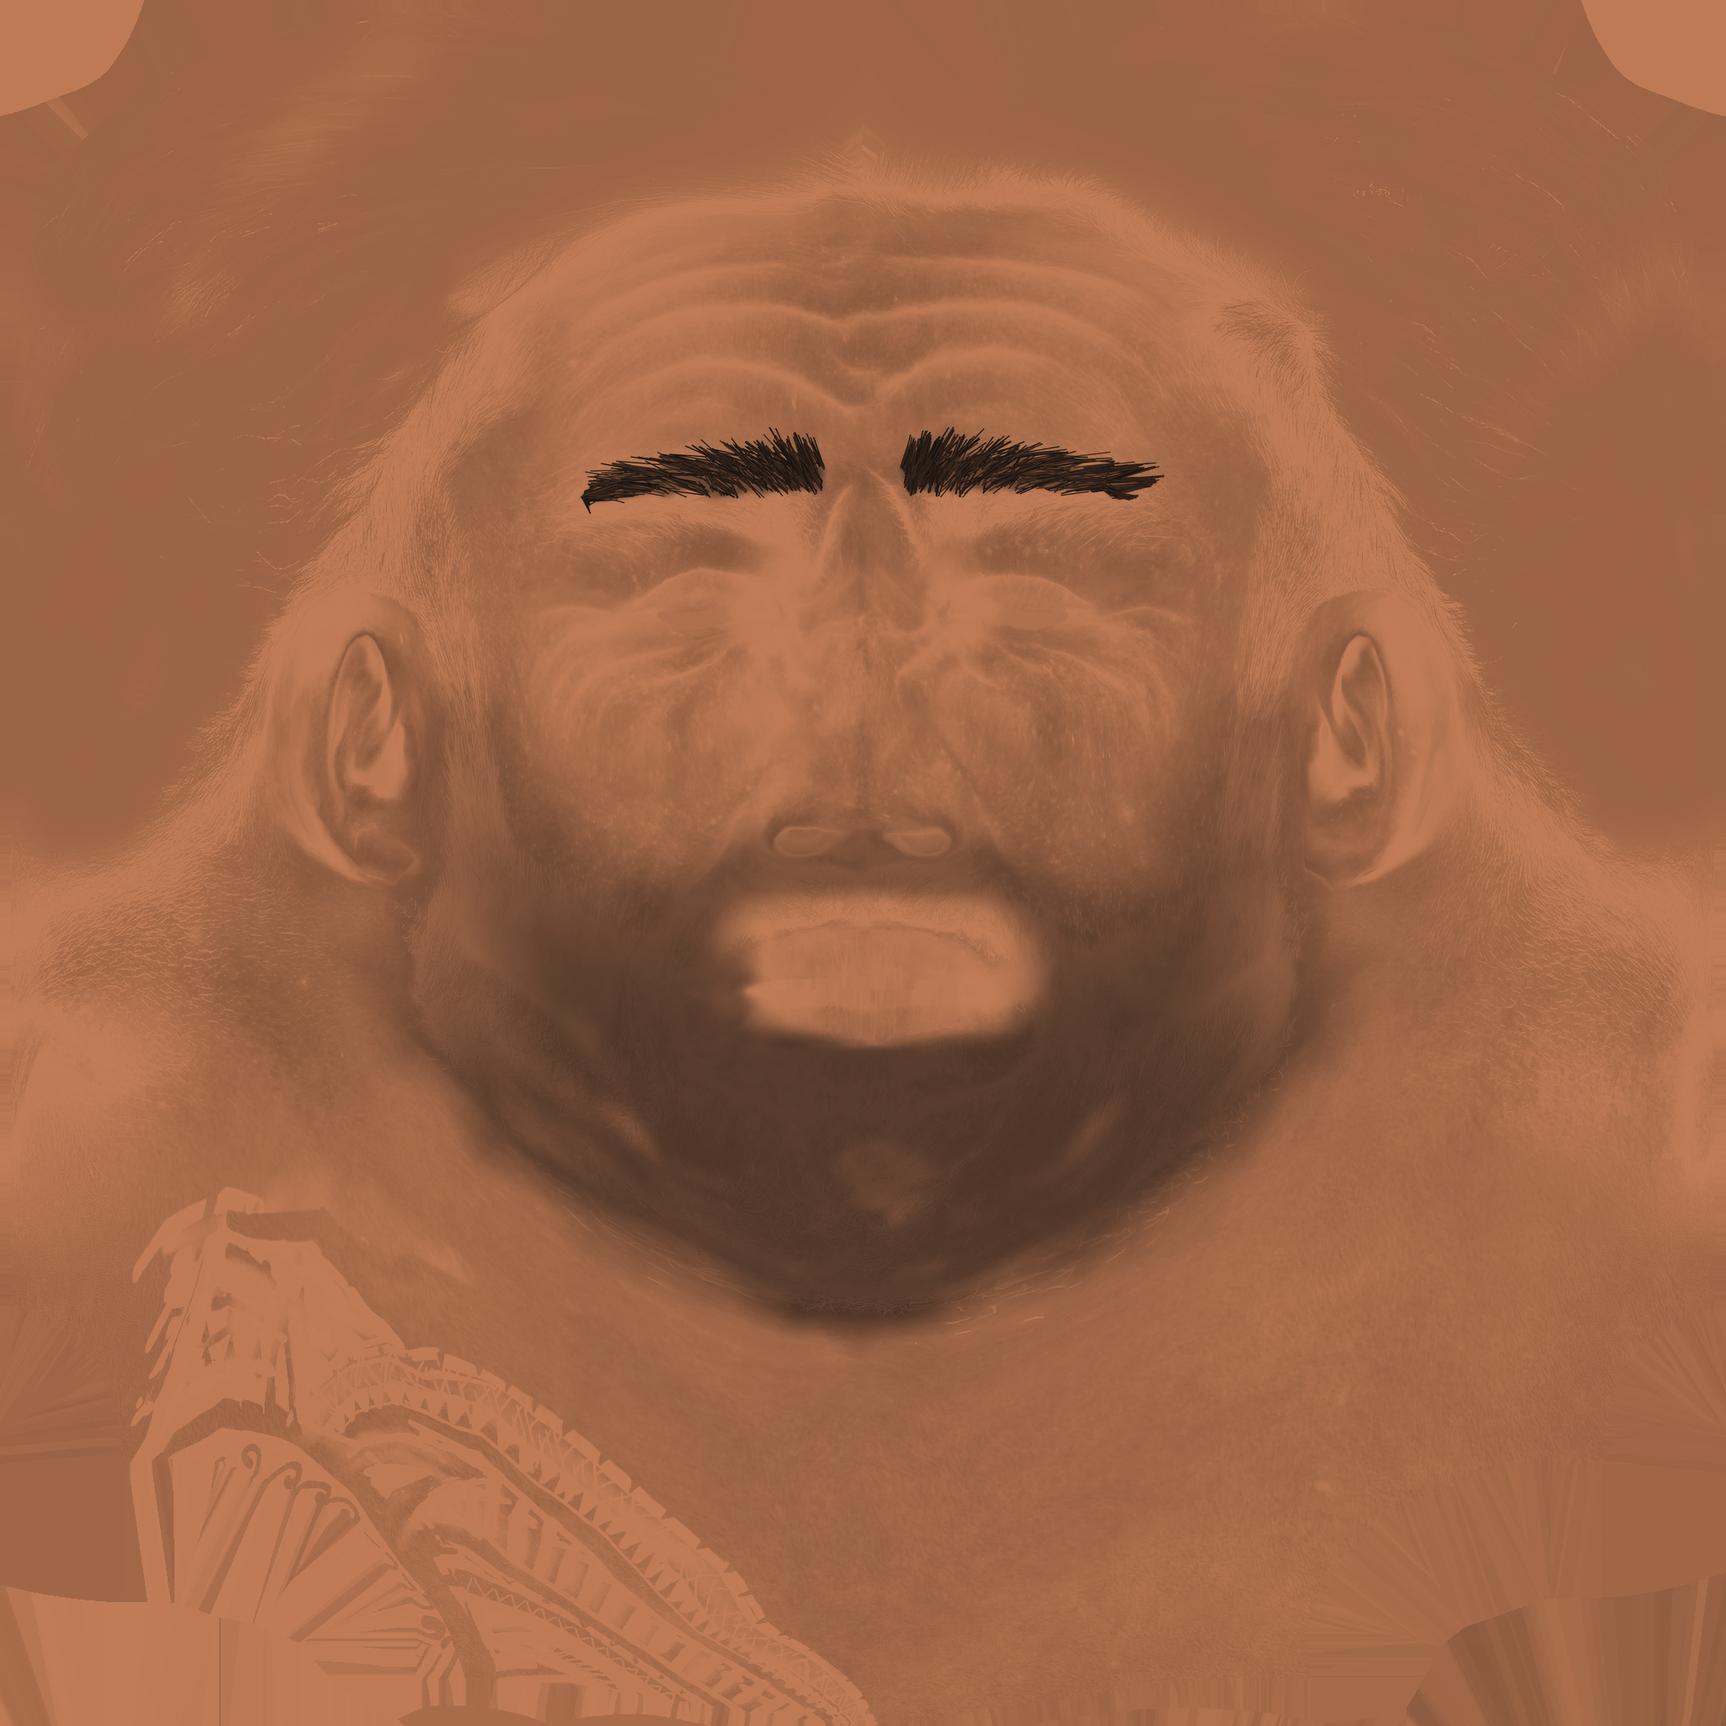
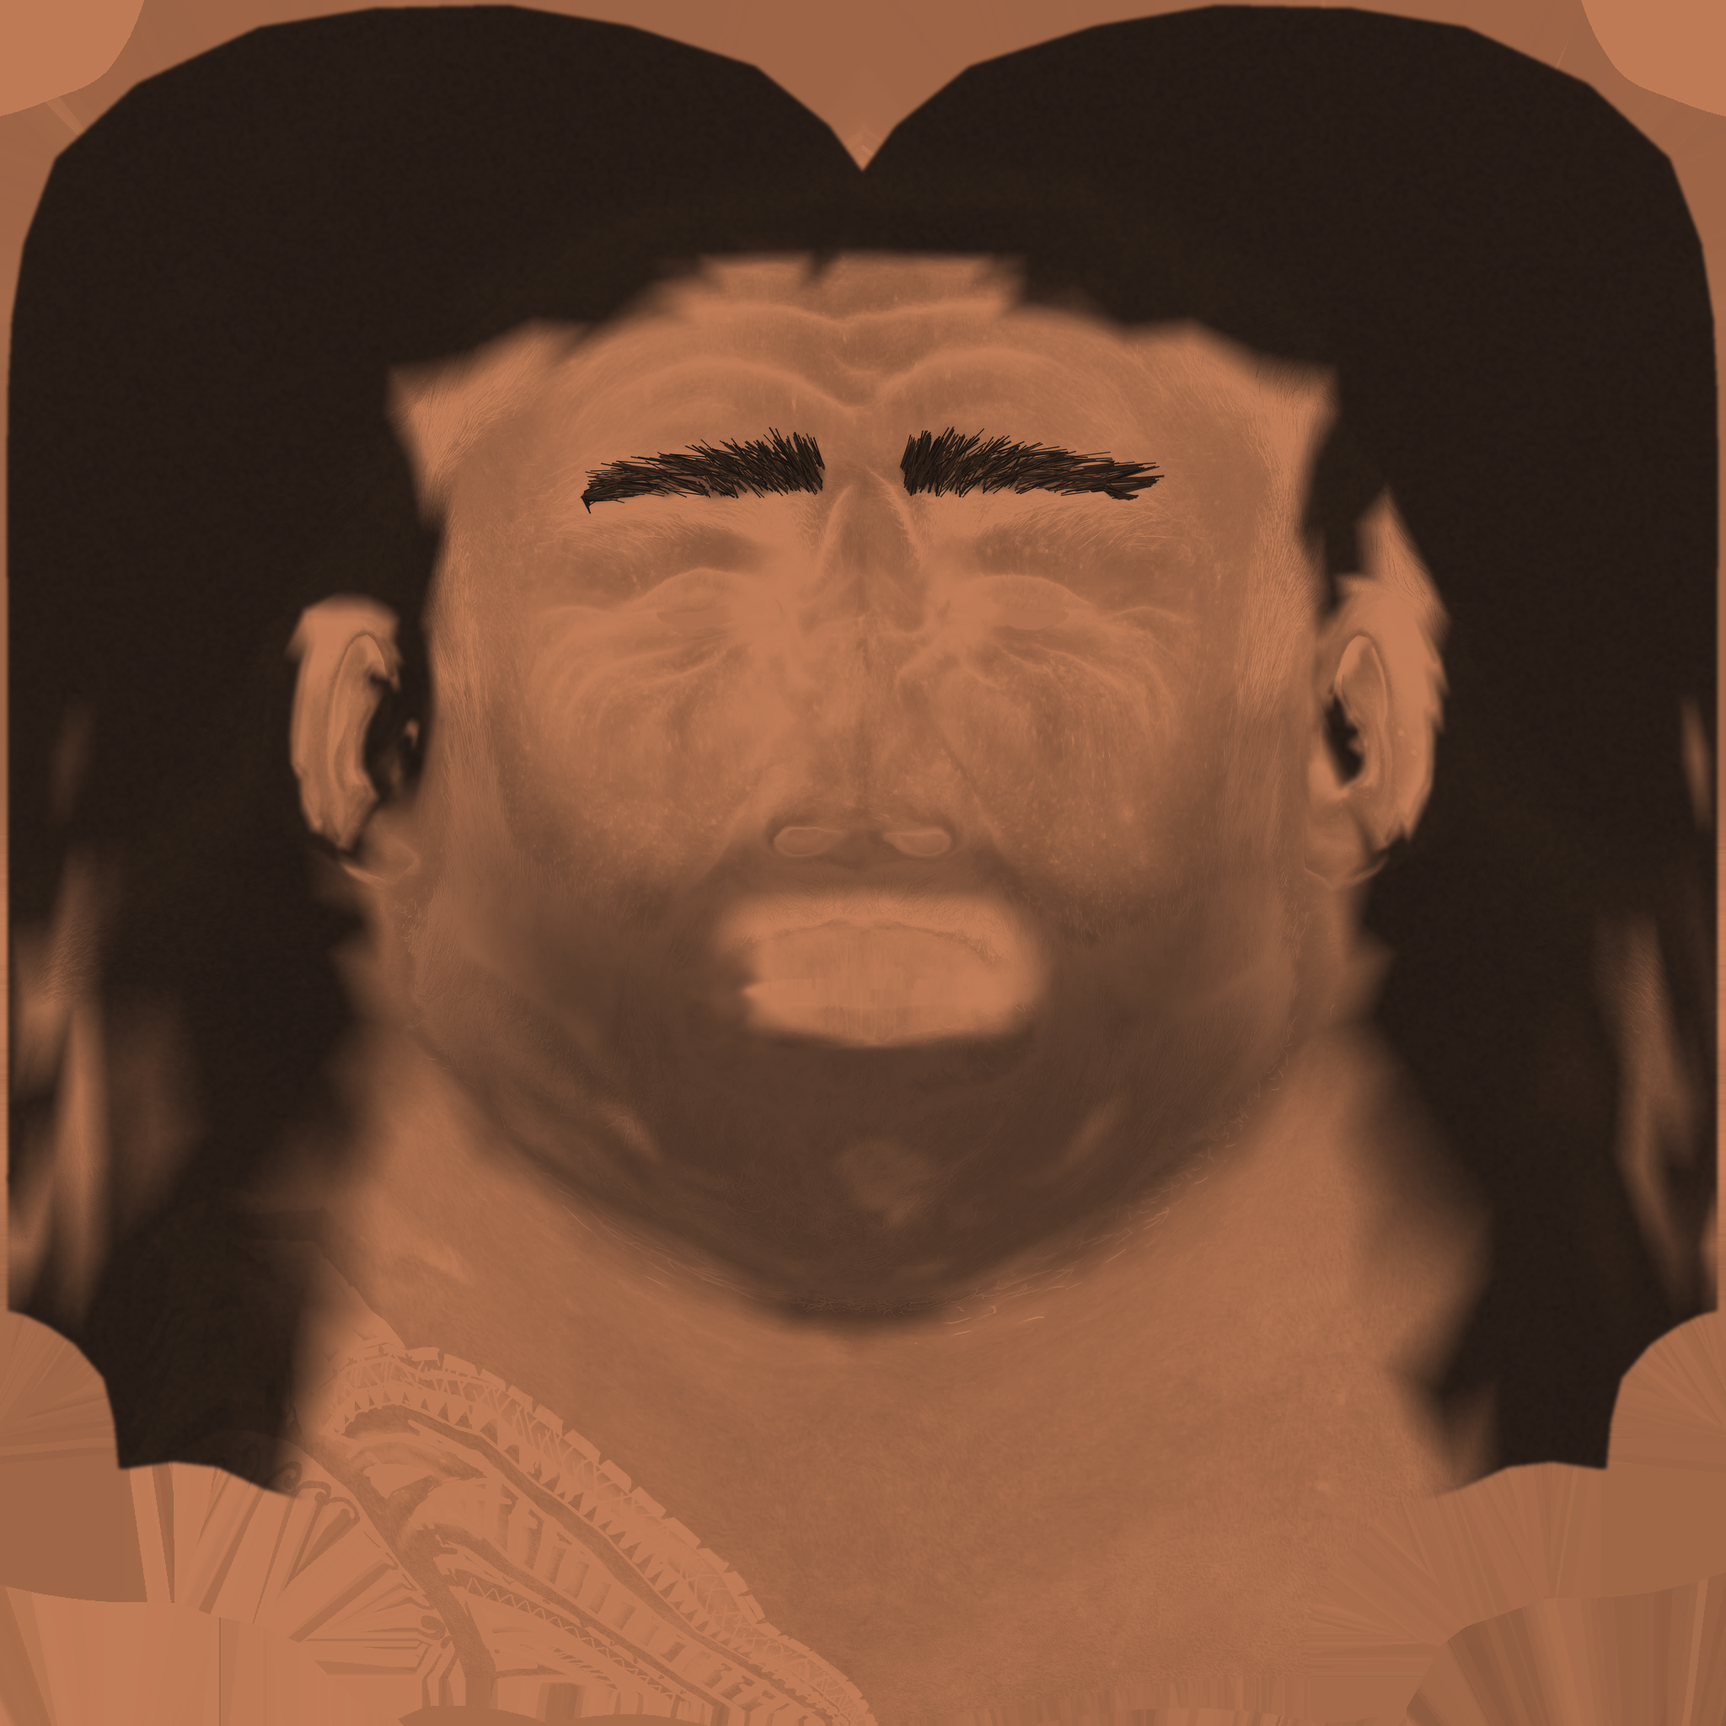
Roman's hair, phase 0: scalp cap, matte cap surface, wet glint, warm beard
- build_roman_hair_alpha.py paints a scalp cap into the head albedo under
  the hair cards (reach measured per region, off the face and ears, islands
  padded before the blur) and writes roman_reigns_head_rm.png: roughness in
  R, metallic in G, so the cap is matte and reflects its near-black albedo
  instead of a grey-blue band under the cool key.
- RomanModel: HAIR_SPECULAR 0.2 (the crown read silver under the 2K26 rig),
  BEARD_COLOR warm brown-black and BEARD_SPECULAR 0.25, the head's surface map.
- hair_shot.tscn takes --only and --modes.
- Tests: the map's skin value matches SKIN_ROUGHNESS, no metal on the face,
  the hair, beard and head materials. 597 pass.

Claude-Session: https://claude.ai/code/session_01RyRo3mh3ZakHSDewU65aFM

diff --git a/tools/assets/build_roman_hair_alpha.py b/tools/assets/build_roman_hair_alpha.py
@@ -383,6 +383,47 @@ BEARD_LIP_HALF_W = 0.028
 BEARD_LIP_HALF_H = 0.0105
 
 
+def _nearest_distance(points, cloud):
+    """Distance from each of `points` to the nearest point of `cloud`."""
+    import numpy as np
+    near = np.empty(len(points))
+    for i in range(0, len(points), 256):
+        d = np.linalg.norm(points[i:i + 256, None, :] - cloud[None, :, :], axis=2)
+        near[i:i + 256] = d.min(axis=1)
+    return near
+
+
+def _uv_field(size, uv, tris, weight):
+    """Rasterises a per-vertex weight into a size x size texture-space field
+    through the mesh's UVs, keeping the max where islands overlap."""
+    import numpy as np
+    field = np.zeros((size, size), dtype=np.float32)
+    for tri in tris:
+        w = weight[tri]
+        if w.max() <= 0.0:
+            continue
+        p = uv[tri] * size
+        x0, y0 = np.floor(p.min(axis=0)).astype(int)
+        x1, y1 = np.ceil(p.max(axis=0)).astype(int)
+        x0, y0 = max(x0, 0), max(y0, 0)
+        x1, y1 = min(x1, size - 1), min(y1, size - 1)
+        if x1 < x0 or y1 < y0:
+            continue
+        xs, ys = np.meshgrid(np.arange(x0, x1 + 1) + 0.5, np.arange(y0, y1 + 1) + 0.5)
+        (ax, ay), (bx, by), (cx, cy) = p
+        den = (by - cy) * (ax - cx) + (cx - bx) * (ay - cy)
+        if abs(den) < 1e-9:
+            continue
+        l0 = ((by - cy) * (xs - cx) + (cx - bx) * (ys - cy)) / den
+        l1 = ((cy - ay) * (xs - cx) + (ax - cx) * (ys - cy)) / den
+        l2 = 1.0 - l0 - l1
+        inside = (l0 >= -0.01) & (l1 >= -0.01) & (l2 >= -0.01)
+        val = l0 * w[0] + l1 * w[1] + l2 * w[2]
+        region = field[y0:y1 + 1, x0:x1 + 1]
+        region[inside] = np.maximum(region[inside], val[inside])
+    return field
+
+
 def paint_beard_shadow(model: pathlib.Path, target: pathlib.Path) -> None:
     import numpy as np
     head = _glb_attributes(model, "M_Head")
@@ -390,11 +431,7 @@ def paint_beard_shadow(model: pathlib.Path, target: pathlib.Path) -> None:
     pos = np.array(head["POSITION"])
     uv = np.array(head["TEXCOORD_0"])
     tris = np.array(head["INDICES"]).reshape(-1, 3)
-    # Nearest card vertex per head vertex, in chunks.
-    near = np.empty(len(pos))
-    for i in range(0, len(pos), 256):
-        d = np.linalg.norm(pos[i:i + 256, None, :] - cards[None, :, :], axis=2)
-        near[i:i + 256] = d.min(axis=1)
+    near = _nearest_distance(pos, cards)
     weight = np.clip(1.0 - (near - BEARD_SHADOW_NEAR)
                      / (BEARD_SHADOW_FAR - BEARD_SHADOW_NEAR), 0.0, 1.0)
     # Never above the cheekbone line or behind the ear.
@@ -420,30 +457,7 @@ def paint_beard_shadow(model: pathlib.Path, target: pathlib.Path) -> None:
     weight *= 1.0 - (1.0 - BEARD_SHADOW_SIDES) * fade
     albedo = Image.open(target).convert("RGB")
     size = albedo.size[0]
-    field = np.zeros((size, size), dtype=np.float32)
-    for tri in tris:
-        w = weight[tri]
-        if w.max() <= 0.0:
-            continue
-        p = uv[tri] * size
-        x0, y0 = np.floor(p.min(axis=0)).astype(int)
-        x1, y1 = np.ceil(p.max(axis=0)).astype(int)
-        x0, y0 = max(x0, 0), max(y0, 0)
-        x1, y1 = min(x1, size - 1), min(y1, size - 1)
-        if x1 < x0 or y1 < y0:
-            continue
-        xs, ys = np.meshgrid(np.arange(x0, x1 + 1) + 0.5, np.arange(y0, y1 + 1) + 0.5)
-        (ax, ay), (bx, by), (cx, cy) = p
-        den = (by - cy) * (ax - cx) + (cx - bx) * (ay - cy)
-        if abs(den) < 1e-9:
-            continue
-        l0 = ((by - cy) * (xs - cx) + (cx - bx) * (ys - cy)) / den
-        l1 = ((cy - ay) * (xs - cx) + (ax - cx) * (ys - cy)) / den
-        l2 = 1.0 - l0 - l1
-        inside = (l0 >= -0.01) & (l1 >= -0.01) & (l2 >= -0.01)
-        val = l0 * w[0] + l1 * w[1] + l2 * w[2]
-        region = field[y0:y1 + 1, x0:x1 + 1]
-        region[inside] = np.maximum(region[inside], val[inside])
+    field = _uv_field(size, uv, tris, weight)
     # Stubble grain, seeded: a beard shadow is not a flat fill.
     rng = np.random.default_rng(BEARD_SHADOW_SEED)
     grain = 0.78 + 0.22 * rng.random((size, size), dtype=np.float32)
@@ -452,6 +466,124 @@ def paint_beard_shadow(model: pathlib.Path, target: pathlib.Path) -> None:
     shadow = Image.new("RGB", albedo.size, BEARD_SHADOW_COLOR)
     Image.composite(shadow, albedo, mask).save(target, optimize=True)
     print(f"{'beard shadow':38} -> {target.name:34} {int((field > 0.05).sum())} texels")
+
+
+## The scalp under the hair, painted into the head albedo.
+##
+## The same two-layer rule as the beard, applied to the head: a game head of
+## hair is cards for the silhouette over a painted scalp cap, so wherever the
+## cards part, the eye finds more hair and not skin. Roman had no cap. With
+## his hair lifted off the scalp for volume (RomanModel.hair_lift) and the
+## hanging lengths drawn out past the shoulders (hair_stretch), the gaps
+## between cards widened, and on hair_shot.tscn tan skin showed through at
+## the temples, over the ear and in a dotted patch behind it.
+##
+## Where to paint comes from the cards, as with the beard: each head vertex
+## is darkened by its distance to the nearest card of the two visible hair
+## meshes, measured in BIND space (before the runtime lift): full inside a
+## reach, feathering to nothing SCALP_CAP_FEATHER further out. The reach is
+## not one number because the cards are not one distance off the skin --
+## measured, the median gap is 3 mm at the front hairline and 12 mm over the
+## back of the head (90th percentile 7.5 mm and 16 mm). One reach either
+## missed the back (the first render: tan blotches through a grey wash) or
+## crept down the forehead. So the tight SCALP_CAP_REACH[0] holds only on
+## the hairline itself -- the front of the head (SCALP_CAP_FRONT_Z) below
+## the top of the forehead (SCALP_CAP_FRONT_Y) -- and [1] everywhere else,
+## the crown included: a front-to-back blend left the top of the crown, whose
+## cards also sit ~10 mm off, half-painted. The feather is the hairline: hair
+## thins into the forehead, it does not stop on a line -- but over a few
+## millimetres: in game, at 9 mm the dark paint thinned over skin read as a
+## grey-blue band across the top of the forehead under the cool key. So the
+## feather narrows to SCALP_CAP_FEATHER[0] on the hairline and stays
+## [1] elsewhere, where it only blends cap into nape and sideburn.
+##
+## Never on the face: SCALP_CAP_FACE keeps it off everything in front of the
+## ears below the hairline, where the beard shadow takes over. Never on the
+## ears: the hanging cards pass within 2 cm of their backs, and the first
+## render painted them dark. SCALP_CAP_EAR is the box they stick out of the
+## skull in (|x| beyond the skull's 0.076 half-width above them).
+SCALP_CAP_MESHES = ("M_Hair", "S_Hair")
+SCALP_CAP_COLOR = (20, 16, 14)
+SCALP_CAP_REACH = (0.006, 0.017)
+SCALP_CAP_FRONT_Z = (0.03, 0.08)
+SCALP_CAP_FRONT_Y = (1.79, 1.82)
+SCALP_CAP_FEATHER = (0.003, 0.009)
+SCALP_CAP_OPACITY = 0.97
+SCALP_CAP_SEED = 13
+## (z in front of, y below) which the cap is never painted.
+SCALP_CAP_FACE = (0.065, 1.765)
+## (|x| beyond, y from, y to)
+SCALP_CAP_EAR = (0.077, 1.63, 1.77)
+## The cap's surface, written as roman_reigns_head_rm.png: roughness in R
+## (roughness_texture, multiplying a material roughness of 1.0 -- so
+## HEAD_SKIN_ROUGHNESS must equal RomanModel.SKIN_ROUGHNESS["Material.001"],
+## and a test holds them together) and the cap's coverage in G
+## (metallic_texture, at a material metallic of 1.0).
+##
+## Painting the cap dark was half the fix. Where the hairline cards thin, the
+## cap shows through them, and the head's skin material threw the cool key
+## back off it as a grey-blue band across the top of the forehead: on tan
+## skin that sheen is lost in the colour, on near-black it IS the colour.
+## Rendered with the head's reflectance at zero the band went dark, as a mat
+## of roots does. Roughness alone did not do it (rendered at 1.0, the band
+## stayed): what lit it is the 4% reflectance every dielectric has, and
+## BaseMaterial3D cannot map that. Metallic can -- a metal reflects its own
+## albedo, and this albedo is near-black -- so under the cap the head is
+## "metallic", rough, and reflects almost nothing. Only under the cap, so
+## the face keeps its sheen.
+HEAD_SKIN_ROUGHNESS = 0.58
+SCALP_CAP_ROUGHNESS = 1.0
+## Texels the painted field is grown past each UV island's edge before the
+## blur, as a bake pads its islands. Without it the blur averages the island
+## with the empty texels outside it, and every UV seam draws as a pale line --
+## one ran down the middle of the crown in the first render.
+SCALP_CAP_PAD = 4
+
+
+def paint_scalp_cap(model: pathlib.Path, target: pathlib.Path,
+                    surface: pathlib.Path) -> None:
+    import numpy as np
+    head = _glb_attributes(model, "M_Head")
+    cards = np.vstack([np.array(_glb_attributes(model, m)["POSITION"])
+                       for m in SCALP_CAP_MESHES])
+    pos = np.array(head["POSITION"])
+    uv = np.array(head["TEXCOORD_0"])
+    tris = np.array(head["INDICES"]).reshape(-1, 3)
+    near = _nearest_distance(pos, cards)
+    def smooth(a, b, x):
+        u = np.clip((x - a) / (b - a), 0.0, 1.0)
+        return u * u * (3.0 - 2.0 * u)
+    hairline = smooth(*SCALP_CAP_FRONT_Z, pos[:, 2]) * (1.0 - smooth(*SCALP_CAP_FRONT_Y, pos[:, 1]))
+    reach = SCALP_CAP_REACH[1] + (SCALP_CAP_REACH[0] - SCALP_CAP_REACH[1]) * hairline
+    feather = SCALP_CAP_FEATHER[1] + (SCALP_CAP_FEATHER[0] - SCALP_CAP_FEATHER[1]) * hairline
+    t = np.clip(1.0 - (near - reach) / feather, 0.0, 1.0)
+    weight = t * t * (3.0 - 2.0 * t)
+    weight[(pos[:, 2] > SCALP_CAP_FACE[0]) & (pos[:, 1] < SCALP_CAP_FACE[1])] = 0.0
+    ear = ((np.abs(pos[:, 0]) > SCALP_CAP_EAR[0])
+           & (pos[:, 1] > SCALP_CAP_EAR[1]) & (pos[:, 1] < SCALP_CAP_EAR[2]))
+    weight[ear] = 0.0
+    albedo = Image.open(target).convert("RGB")
+    size = albedo.size[0]
+    field = _uv_field(size, uv, tris, weight)
+    covered = field > 0.0
+    padded = np.array(Image.fromarray((field * 255).astype(np.uint8), "L")
+                      .filter(ImageFilter.MaxFilter(2 * SCALP_CAP_PAD + 1)),
+                      dtype=np.float32) / 255.0
+    field = np.where(covered, field, padded)
+    # Grain, seeded, so the cap reads as dense short roots rather than paint.
+    rng = np.random.default_rng(SCALP_CAP_SEED)
+    grain = 0.80 + 0.20 * rng.random((size, size), dtype=np.float32)
+    mask = Image.fromarray(np.clip(field * grain * SCALP_CAP_OPACITY * 255, 0, 255)
+                           .astype(np.uint8), "L").filter(ImageFilter.GaussianBlur(2))
+    cap = Image.new("RGB", albedo.size, SCALP_CAP_COLOR)
+    Image.composite(cap, albedo, mask).save(target, optimize=True)
+    print(f"{'scalp cap':38} -> {target.name:34} {int((field > 0.05).sum())} texels")
+    cover = np.asarray(mask, dtype=np.float32) / 255.0
+    rough = HEAD_SKIN_ROUGHNESS + (SCALP_CAP_ROUGHNESS - HEAD_SKIN_ROUGHNESS) * cover
+    channels = [np.round(rough * 255), np.round(cover * 255), np.zeros_like(cover)]
+    Image.merge("RGB", [Image.fromarray(c.astype(np.uint8), "L") for c in channels]) \
+        .save(surface, optimize=True)
+    print(f"{'scalp cap roughness/metallic':38} -> {surface.name:34}")
 
 
 def main() -> int:
@@ -469,6 +601,8 @@ def main() -> int:
     )
     paint_brows(CHARACTERS / "roman_reigns.glb", CHARACTERS / "roman_reigns_head_color.png")
     paint_beard_shadow(CHARACTERS / "roman_reigns.glb", CHARACTERS / "roman_reigns_head_color.png")
+    paint_scalp_cap(CHARACTERS / "roman_reigns.glb", CHARACTERS / "roman_reigns_head_color.png",
+                    CHARACTERS / "roman_reigns_head_rm.png")
     return 0
 
 

diff --git a/README.md b/README.md
@@ -8030,3 +8030,46 @@ holding up signs the way the reference photos of a WWE crowd do it.
   - they sit about a second after the bell;
   - they stand only twice more in the match, on a signature or a near-fall,
     at least 25 s apart, for about 4.5 s each.
+
+## Round: Roman's hair, phase 0 of the character plan
+
+Phase 0 of `gauntlet/refs/character_aaa_plan.md`, rendered under the 2K26
+lighting round's rig with `hair_shot.tscn` (which now takes `--only roman
+--modes on`, so a material pass costs two frames, not twelve). Before, three
+defects: pale blue-white streaks across the crown, tan skin between the cards
+at the temples and behind the ear, and a flat blue-grey beard.
+
+- **A scalp cap.** A game head of hair is cards over a painted scalp, so a
+  parting shows more hair, not skin; Roman had none. `paint_scalp_cap` in
+  `build_roman_hair_alpha.py` paints it into the head albedo where the two
+  visible hair meshes lie, by distance from each head vertex to the nearest
+  card -- tight at the hairline (the cards sit 3 mm off the forehead), wide
+  over the crown and back (12 mm), off the face and the ears, with the
+  islands padded before the blur so no UV seam draws a line. Checked first
+  on bare-head Cycles renders of the .glb through `bpy`, then in game.
+- **The cap's surface.** Where the hairline cards thin the cap shows through,
+  and as skin it threw the cool key back as a grey-blue band across the
+  forehead. Roughness alone did not remove it; the dielectric's 4%
+  reflectance did. `roman_reigns_head_rm.png` carries roughness (R) and
+  metallic (G): skin roughness and no metal on the face, matte and "metallic"
+  under the cap -- a metal reflects its albedo, and there that is near-black.
+- **Hair reflectance** `HAIR_SPECULAR` 0.5 -> 0.2: the rim at 5.0 and the
+  cooler key had turned the crown silver. Roughness stays 0.42, so the glint
+  stays narrow -- a wet streak on jet black.
+- **The beard** gets its own `BEARD_COLOR`, warm brown-black off the head
+  reference, and `BEARD_SPECULAR` 0.25.
+
+Cody's collar from the same WIP commit was checked on Cycles renders of
+`cody_coat.glb`: a clean flared stand collar, seated on the shoulders. Not yet
+seen textured in game -- the entrance it appears in is too slow to render
+under a software rasteriser.
+
+Still open on the hair: R1's wave in the normal map and a flyaway card layer;
+the beard's soft cheek edge (card geometry); a stipple of side-strand cards
+over the skin below the ear. And not hair: the eye reads as a blue-grey slab,
+which is phase 1's eye kit.
+
+### Checks
+597 tests pass (`test_roman_hair`: the surface map's skin value against
+`SKIN_ROUGHNESS`, no metal on the face, the hair, beard and head materials).
+The texture build is byte-identical across runs.

diff --git a/gauntlet/refs/character_aaa_plan.md b/gauntlet/refs/character_aaa_plan.md
@@ -176,11 +176,14 @@ if these hold:
 
 Roman is the closest to 2K already. Improve in place; no rebuild.
 
-- **R1. Hair** (in progress, uncommitted render check):
-  - hanging lengths past the shoulders;
-  - wet, narrow highlights;
-  - a wave in the normal map;
-  - a third card layer for flyaways at the temples and nape.
+- **R1. Hair** (first pass done; see README "Roman's hair, phase 0"):
+  - hanging lengths past the shoulders -- done, checked on hair_shot.tscn;
+  - wet, narrow highlights -- done (HAIR_SPECULAR 0.2 under the 2K26 rig);
+  - a painted scalp cap under the cards, matte and near-zero reflectance --
+    done (added: the skin between cards was the biggest single defect);
+  - beard to its own warm brown-black -- done;
+  - still to do: a wave in the normal map; a third card layer for flyaways
+    at the temples and nape.
 - **R2. Face texture to 4K.** Re-project from his best reference photos onto
   the existing UVs (`build_roman_hair_alpha.py` already rebuilds his head
   albedo): pores, beard-line shadow, the sheen on cheekbones and nose.
